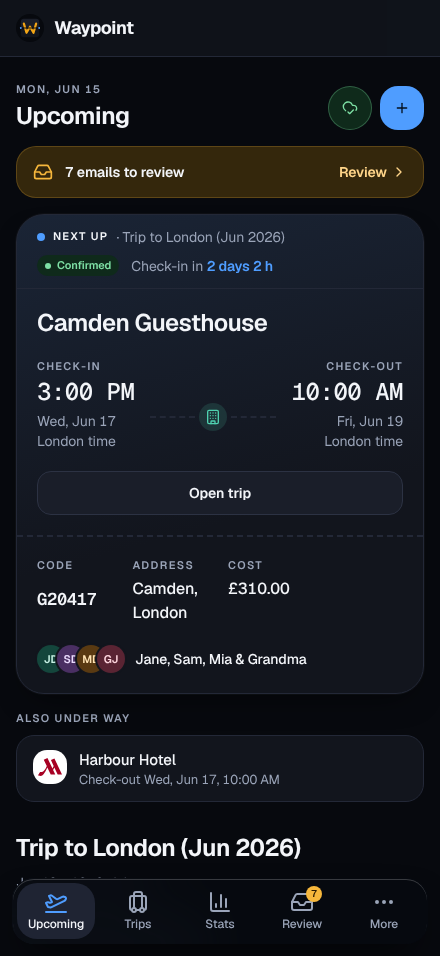
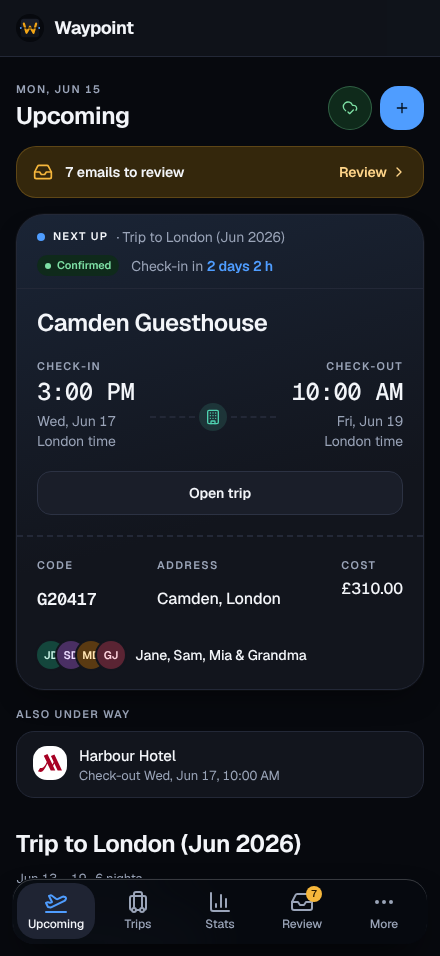
Spread the Home card's bottom section across the full width on phone (#816)

Changed region(s): [[0.0295, 0.5764, 0.7091, 0.91], [0.7682, 0.5764, 0.9159, 0.637], [0.0295, 0.8494, 0.0591, 0.8797]]

diff --git a/frontend/src/lib/components/PassCard.svelte.test.ts b/frontend/src/lib/components/PassCard.svelte.test.ts
@@ -576,7 +576,16 @@ describe("the boarding-pass variant", () => {
     render(PassCard, board({}, { confirmation: code }));
     const button = screen.getByRole("button", { name: `Copy confirmation code ${code}` });
     expect(button).toHaveClass("break-all", "max-w-full");
-    expect(button.closest("dd")?.parentElement).toHaveClass("phone:col-span-4");
+    expect(button.closest("dd")?.parentElement).toHaveClass("phone:basis-full");
+  });
+  it("spreads the stub's details across the full phone width instead of clustering them in quarter columns (owner, 2026-11-18)", () => {
+    const { container } = render(PassCard, board({}, { kind: "hotel", confirmation: "23794412", details: { address: "Duluth, MN", room: "412" }, travelers: [] }));
+    const facts = container.querySelector("[data-stub] dl");
+    expect(facts).toHaveClass("phone:flex", "phone:flex-wrap", "phone:justify-between");
+    expect(facts?.className).not.toMatch(/phone:grid-cols/);
+    const code = screen.getByRole("button", { name: "Copy confirmation code 23794412" }).closest("dd")?.parentElement;
+    expect(code?.className).not.toMatch(/phone:col-span/);
+    expect(screen.getByText("Address").closest("div")).not.toHaveClass("phone:basis-full");
   });
   it("keeps the live status between the route and the actions", () => {
     const live = createRawSnippet(() => ({ render: () => "<p>live area</p>" }));

diff --git a/frontend/src/lib/components/PassCard.svelte b/frontend/src/lib/components/PassCard.svelte
@@ -202,9 +202,9 @@
     </div>
 
     <div class="flex min-w-0 flex-col gap-5 border-t-2 border-dashed border-border p-5 desktop:border-l-2 desktop:border-t-0 md:p-6" data-stub>
-      <dl class="grid grid-cols-2 gap-x-4 gap-y-4 phone:grid-cols-4">
+      <dl class="grid grid-cols-2 gap-x-4 gap-y-4 phone:flex phone:flex-wrap phone:justify-between">
         {#if hasCode}
-          <div class={`col-span-2 min-w-0 ${longCode ? "phone:col-span-4" : "phone:col-span-1"}`}>
+          <div class={`col-span-2 min-w-0 ${longCode ? "phone:basis-full" : ""}`}>
             <dt class="eyebrow"><span class="phone:hidden">{codes.length > 1 ? "Confirmations" : "Confirmation"}</span><span class="desktop:hidden">Code</span></dt>
             <dd class="mt-1 flex flex-wrap gap-x-4">{#each codes as b (b.id)}<CopyCode code={b.confirmation ?? ""} class="mono min-h-11 max-w-full min-w-0 break-all text-left text-title font-semibold phone:text-heading" />{/each}</dd>
           </div>

diff --git a/docs/design/flights/README.md b/docs/design/flights/README.md
@@ -59,6 +59,13 @@ Made in chat after seeing the frames and the build side by side (phone and deskt
 - The Home flight card no longer shows the check-in countdown, the brand logo, the seat and cabin lines or the "Confirmed" chip (owner, 2026-11-17, after seeing the frames and the build side by side). The full card, with the dropped lines, stays outside the window and after the flight lands, and the trip page keeps its full flight card.
 - The Home flight card keeps Check in / Open in app / Manage booking, Directions, Call, the travellers and the cost (owner, 2026-11-17, after the review asked whether they were meant to go): the card shows them as the old card did, under the drawn footer.
 
+## Owner request on the Home card footer (2026-11-18)
+
+- The owner asked, looking at the Home "Next up" hotel card on a phone, "Could we also spread out the bottom section of these cards instead of clustering them?" The section under the dashed rule (code, address, room, cost) sat in quarter-width columns at the left, so the confirmation code and the address wrapped while the right side stayed empty.
+- On a phone the details now spread across the full width of the card, with the first at the left edge and the last at the right edge, so values keep to one line where they fit. A long confirmation code still takes a row of its own, and the travellers stay on their own line below. This applies to every kind that shares the footer (hotel, car, parking, cruise, train, and flights outside the live-status window). Desktop is unchanged, and so are the header, times and buttons.
+- The flight decisions above stand: what the Home flight card drops and keeps is not touched.
+- Not signed off yet: the owner approves the `make verify` images in the pull request before merge.
+
 ## Fonts
 
 The pages load Geist and Geist Mono from Google Fonts when you are online and fall back to system fonts otherwise. This is for viewing these design files only; the app bundles its own fonts and loads nothing from outside.
